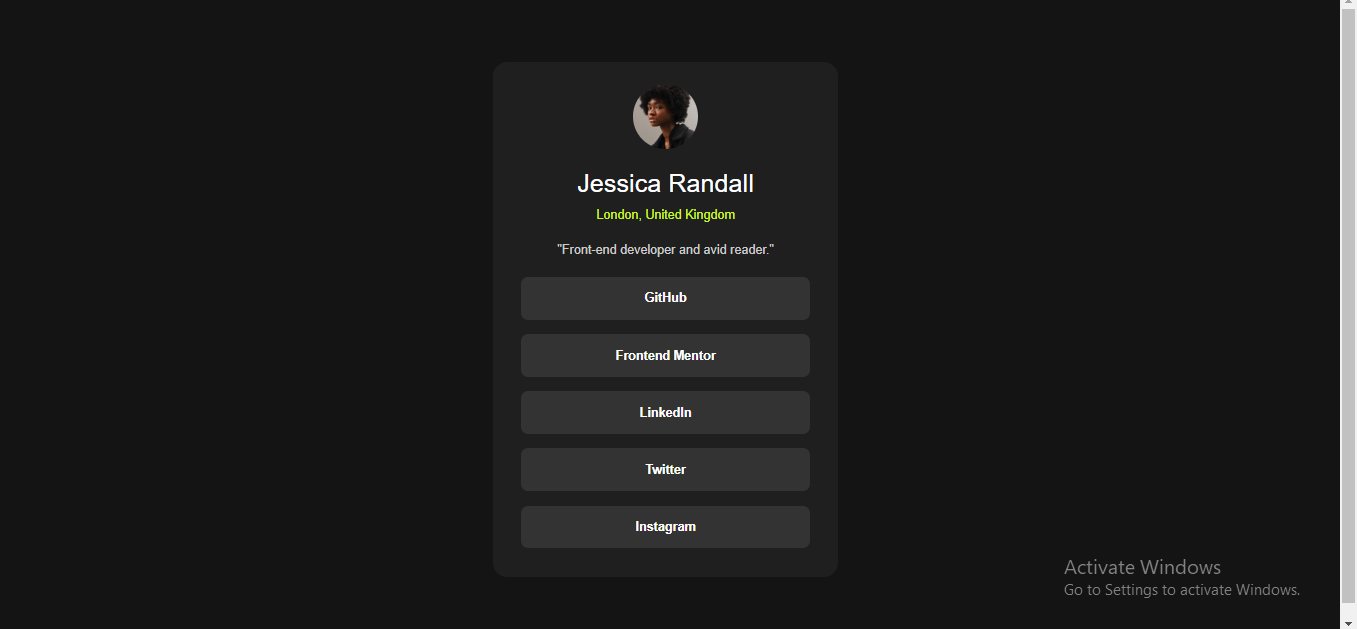
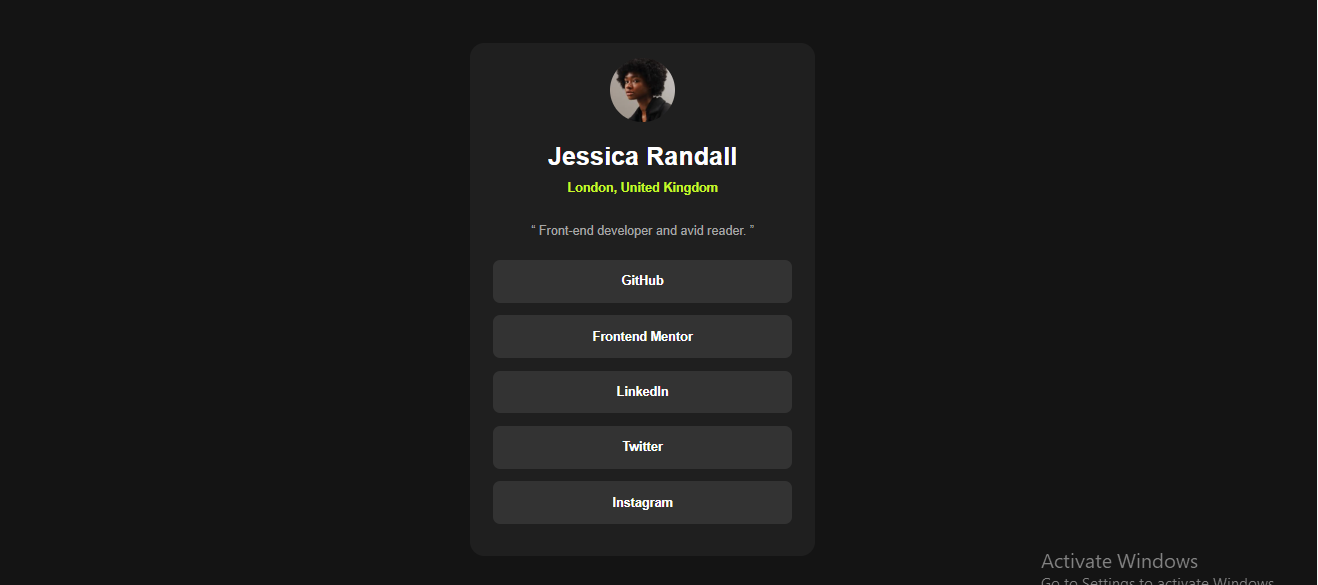
Styled the q tag

diff --git a/style.css b/style.css
@@ -37,13 +37,15 @@ body{
     color: hsl(75, 94%, 57%);
     font-weight: 600;
     margin-top: 0.7rem;
+    margin-bottom: 2rem;
 }
 #about{
     color: hsl(0, 0%, 65%);
     margin-top: 1.5rem;
     font-weight: 400;
 }
-.social-links, .social-links ul{
+.social-links{
+    margin-top: 1.5rem;
     display: flex;
     flex-direction: column;
     justify-content: center;
